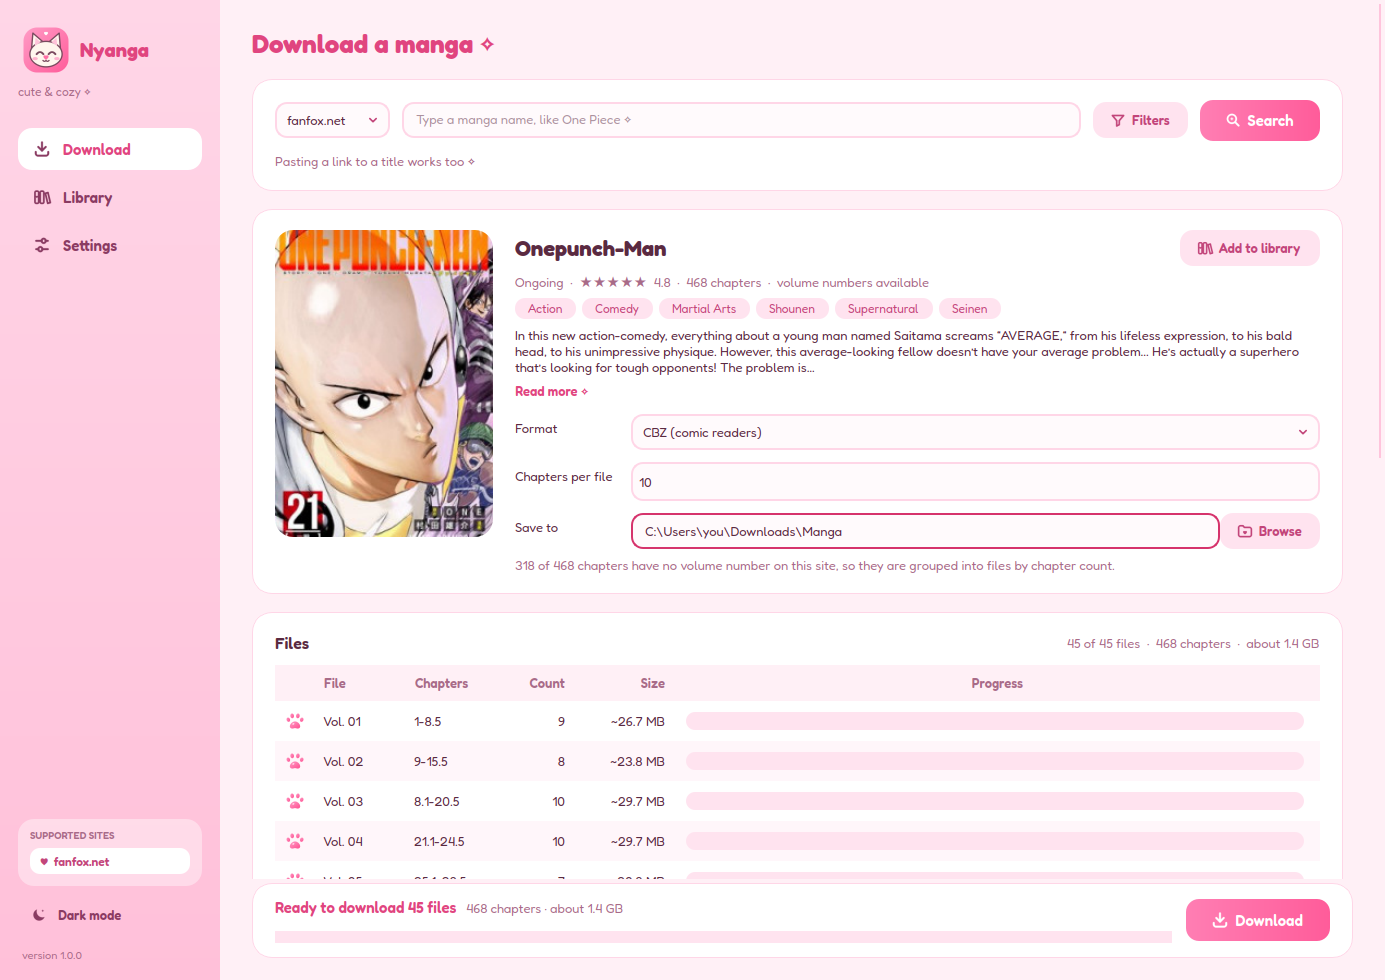
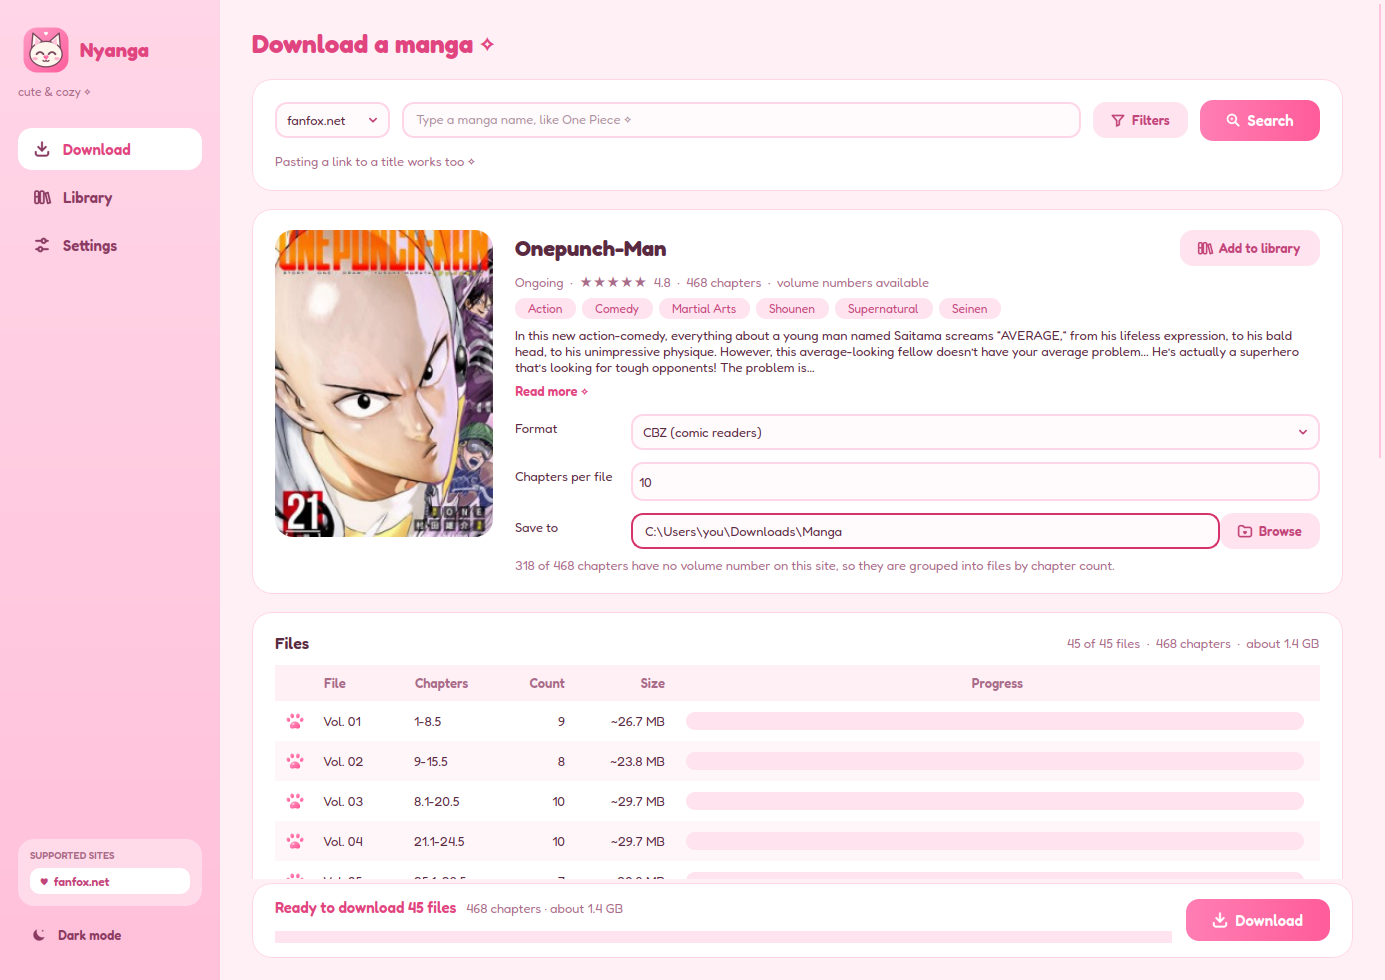
docs: refreshed the readme screenshots

Changed region(s): [[0.0, 0.8265, 0.1552, 0.9796]]

diff --git a/scripts/readme_screenshots.py b/scripts/readme_screenshots.py
@@ -31,15 +31,15 @@ def render(mode: str, out: Path, data: Path) -> None:
 
     from PySide6.QtCore import QTimer
     from PySide6.QtGui import QImage
-    from PySide6.QtWidgets import QApplication
+    from PySide6.QtWidgets import QApplication, QPushButton
 
     import gui
     import theme
 
-    gui.__version__ = "1.0.0"  # a real-looking number instead of 0.0.0-dev
     app = QApplication(["nyanga"])
     app.setFont(theme.load_font())
     window = gui.MainWindow()
+    window.findChild(QPushButton, "version").hide()  # it would go out of date
     window.resize(*SIZE)
     window.show()
     page = window.download
